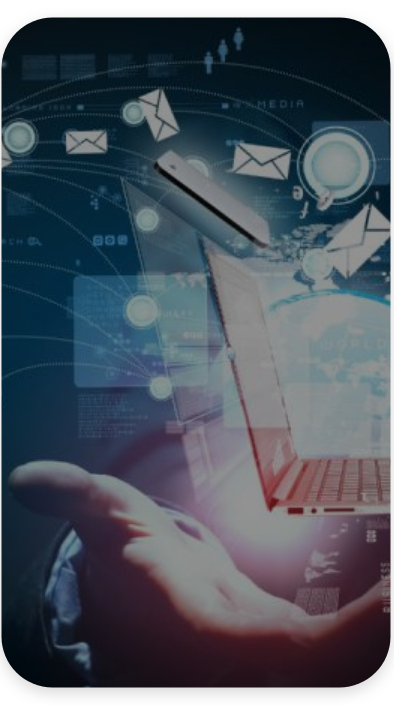
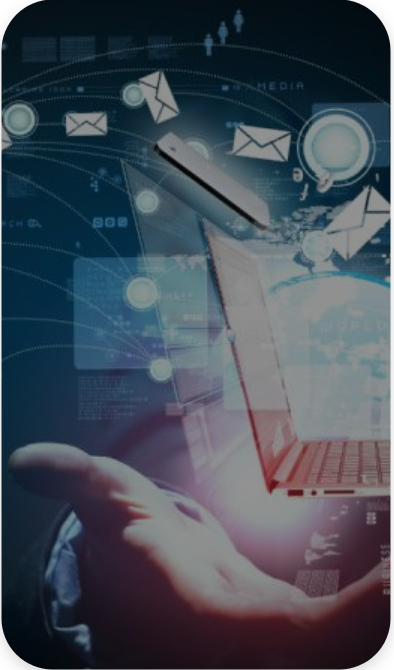
fix: fix the height of some elements

diff --git a/css/desktop.css b/css/desktop.css
@@ -6,8 +6,6 @@
     box-sizing: border-box;
 }
 
-
-
 body, html{
     width: 100%;
     margin: 0 auto;
@@ -43,9 +41,6 @@ nav{
     background-repeat: no-repeat;
 }
 
-
-
-
 .desktop-menu-items{
     width: 57%;
     margin-left: 17%;
@@ -59,7 +54,6 @@ nav{
     list-style-type: none;
     justify-content: space-around;
 }
-
 
 .desktop-menu-items ul li a{
     color: white;
@@ -80,7 +74,7 @@ nav ul li a:hover{
 /*BANNER SECTION*/
 .banner-section{
     width: 100%;
-    height: 117vh;
+    height: 119vh;
     background-image: url('../Imagens_teste-master/web/s1 ft1.png');
     background-size: 100% 100%;
     background-repeat: no-repeat;
@@ -169,7 +163,7 @@ nav ul li a:hover{
 .servicos{
     width: 100%;
     height: 600px;
-    margin-top: 200px;
+    margin-top: 310px;
 }
 
 .servicos-container{
@@ -186,7 +180,7 @@ nav ul li a:hover{
 
 .serv{
     margin-top: 85px;
-    height: 480px;
+    height: 440px;
     float: left;
     width: calc(95% / 3);
     background-image: url('../Imagens_teste-master/web/s3\ ft3.png');
@@ -202,7 +196,6 @@ nav ul li a:hover{
     margin: 0 auto;
     justify-content: center;
     font-size: 1.3vw;
-    
 }
 
 .serv p{
@@ -226,6 +219,8 @@ nav ul li a:hover{
 /*end services section*/
 
 
+
+
 /*DIFFERENCIAL SECTION*/
 
 .diferente{
@@ -234,8 +229,8 @@ nav ul li a:hover{
     display: flex;
     flex-direction: row;
     position: relative;
-    top: 150px;
-    background: red;
+    top: 100px;
+    bottom: 30px;
     justify-content: space-between;
 }
 
@@ -243,14 +238,11 @@ nav ul li a:hover{
     color: black;
     font-size: 40px;
     position: absolute;
-
 }
 
-
-
 .dife{
-    margin-top: 100px;
-    height: 450px;
+    margin-top: 130px;
+    height: 470px;
     max-width: 270px;
     background-position: center;
     background-size: 100% 100%;
@@ -275,10 +267,8 @@ nav ul li a:hover{
     margin-top: 30px;
 }
 
-
 div.diferencial1{
     background-image: url('../Imagens_teste-master/web/s4\ ft1.png');
-
 }
 div.diferencial2{
     background-image: url('../Imagens_teste-master/web/s4\ ft2.png');
@@ -293,18 +283,18 @@ div.diferencial3{
 
 
 
+
 /***FOOTER SECTION***/
 
 footer{
     width: 100%;
-    height: 825px;
+    height: 850px;
     background-color: rgb(25, 25, 25);
     position: relative;
     top: 234px;
     border-top: 55px solid rgb(209, 201, 9);
     border-bottom: 55px solid rgb(209, 201, 9);
 }
-
 
 .container{
     width: 100%;
@@ -322,8 +312,6 @@ footer{
     height: 75%;
 }
 
-
-
 /*FOOTER LEFT SIDE*/
 .footer-left{
     float: left;
@@ -338,7 +326,6 @@ footer{
 .right-container{
     padding-left: 0%;
 }
-
 
 .icons{
     height: 40px;
@@ -361,7 +348,6 @@ footer{
     background-position: center;
     float: left;
 }
-
 
 .facebook {
     height: 38px;
@@ -398,7 +384,6 @@ footer{
 .email, .phone{
     display: flex;
     flex-direction: row;
- 
 }
 
 .email i{
@@ -490,7 +475,6 @@ footer form input{
 footer form input::placeholder{
     color: rgb(215, 215, 215);
 }
-
 
 footer form textarea{
     resize: none;
